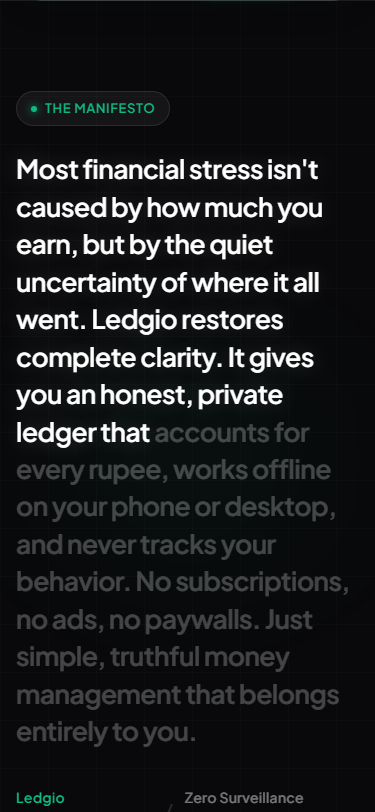
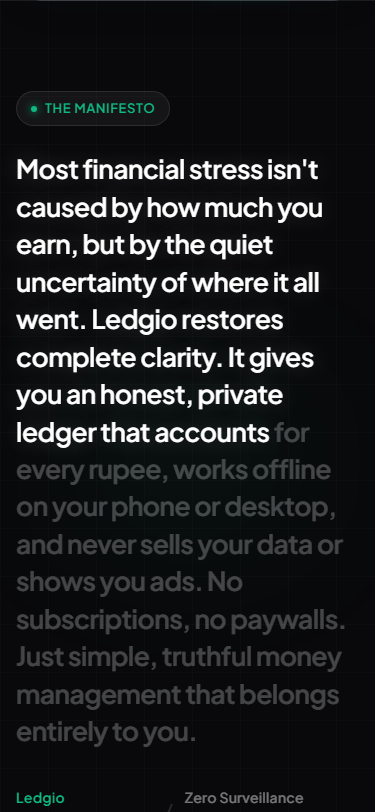
fix(landing): copy corrections on loans, manifesto, and budget warnings

Changed region(s): [[0.0293, 0.6466, 0.9093, 0.8313], [0.4107, 0.5234, 0.7333, 0.5542]]

diff --git a/index.html b/index.html
@@ -350,7 +350,7 @@
           <span class="manifesto-badge-dot" aria-hidden="true"></span>
           <span>The Manifesto</span>
         </div>
-        <p class="manifesto-statement" id="manifesto-statement" aria-label="Most financial stress isn't caused by how much you earn, but by the quiet uncertainty of where it all went. Ledgio restores complete clarity. It gives you an honest, private ledger that accounts for every rupee, works offline on your phone or desktop, and never tracks your behavior. No subscriptions, no ads, no paywalls. Just simple, truthful money management that belongs entirely to you.">Most financial stress isn't caused by how much you earn, but by the quiet uncertainty of where it all went. Ledgio restores complete clarity. It gives you an honest, private ledger that accounts for every rupee, works offline on your phone or desktop, and never tracks your behavior. No subscriptions, no ads, no paywalls. Just simple, truthful money management that belongs entirely to you.</p>
+        <p class="manifesto-statement" id="manifesto-statement" aria-label="Most financial stress isn't caused by how much you earn, but by the quiet uncertainty of where it all went. Ledgio restores complete clarity. It gives you an honest, private ledger that accounts for every rupee, works offline on your phone or desktop, and never sells your data or shows you ads. No subscriptions, no paywalls. Just simple, truthful money management that belongs entirely to you.">Most financial stress isn't caused by how much you earn, but by the quiet uncertainty of where it all went. Ledgio restores complete clarity. It gives you an honest, private ledger that accounts for every rupee, works offline on your phone or desktop, and never sells your data or shows you ads. No subscriptions, no paywalls. Just simple, truthful money management that belongs entirely to you.</p>
         <div class="manifesto-author-line">
           <span class="manifesto-brand-tag">Ledgio Architecture</span>
           <span class="manifesto-divider">/</span>
@@ -416,7 +416,7 @@
               <div class="step-num-badge">04</div>
               <div class="step-content">
                 <h3 class="step-title">Track loans and debts</h3>
-                <p class="step-desc">Keep track of money lent and borrowed, including cash loans and expenses paid on behalf of others. Record partial settlements with a clear repayment history.</p>
+                <p class="step-desc">Keep track of money lent and borrowed, including cash loans and bills someone paid for you. Record partial settlements with a clear repayment history.</p>
               </div>
               <div class="step-mobile-screen">
                 <img src="assets/img/landing/screen_loans_list.webp" alt="Ledgio loans ledger showing money lent and borrowed with partial settlements" loading="lazy" width="780" height="1688" class="step-inline-img">
@@ -531,7 +531,7 @@
 
             <!-- Panel 2: Budgets -->
             <div class="showcase-panel" role="tabpanel" id="panel-budgets" aria-labelledby="tab-budgets" tabindex="0" hidden>
-              <h3>Visual Spending Limits That Stop Overspending</h3>
+              <h3>Spending Limits That Warn You Early</h3>
               <p>Track monthly progress against category ceilings with visual warning thresholds before you exceed your limits.</p>
               <div class="showcase-bullets">
                 <div class="showcase-bullet">
@@ -588,7 +588,7 @@
                 </div>
                 <div class="showcase-bullet">
                   <i class="fas fa-check-circle" aria-hidden="true"></i>
-                  <span>Cash loans and paid-on-behalf tracking with partial settlements</span>
+                  <span>Cash loans and bills someone paid for you, with partial settlements</span>
                 </div>
                 <div class="showcase-bullet">
                   <i class="fas fa-check-circle" aria-hidden="true"></i>

diff --git a/docs/ui/landing-v2/PLAN.md b/docs/ui/landing-v2/PLAN.md
@@ -156,15 +156,15 @@ Every claim on the public landing page is mapped directly to the code that suppo
 | **Hero Chip** | 55% of Income Saved | Demo dataset (`Income: ₹16,540`, `Expenses: ₹2,289`, `Net surplus: ₹9,101`, savings rate: 55%). |
 | **Hero Chip** | Food & Dining · ₹1,450 / ₹3,000 limit | `assets/js/categories.js` (`DEFAULT_CATEGORIES` contains Food & Dining with default ₹3,000 cap). |
 | **Hero Chip** | Offline Ready · Zero ad trackers | `sw.js` (offline service worker cache), zero external ad tracker scripts in `index.html`. |
-| **Manifesto** | Accounts for every rupee, works offline, no subscriptions/ads/paywalls | `localStorage` offline storage; no telemetry tracking user accounts (`assets/js/pwa-installer.js` always sends `user_id: null`). |
+| **Manifesto** | Accounts for every rupee, works offline, never sells your data or shows you ads, no subscriptions or paywalls | `localStorage` offline storage; no user telemetry (`assets/js/pwa-installer.js` always sends `user_id: null`); zero third-party ads or trackers. |
 | **Walkthrough Step 1** | Name, amount, category, instant update of remaining balance | `assets/js/expenses.js` (`LedgioExpenses.renderExpenses()`), `assets/js/app.js` (`app.updateSummary()`). |
 | **Walkthrough Step 2** | 15 categories in total, 10 built-in by default; progress bars shift from green to amber | `assets/js/categories.js` (`DEFAULT_CATEGORIES.length === 10`, `getAllCategories().length >= 15` limit enforced); `assets/js/expenses.js` (`renderBudgets()` visual thresholds). |
 | **Walkthrough Step 3** | Savings goals with single-tap deposits funded from monthly leftover | `assets/js/goals.js` (`LedgioGoals.openDepositModal()`), `assets/js/app.js` (`app.openLeftoverGoalPicker()`). |
-| **Walkthrough Step 4** | Money lent and borrowed, cash loans vs paid-on-behalf, partial settlements, repayment history | `assets/js/loans.js` (`LedgioLoans.renderLoans()`, `type: 'lent' \| 'borrowed'`, `loan_subtype: 'cash' \| 'paid_for'`, `recordLoanRepayment()`). |
+| **Walkthrough Step 4** | Money lent and borrowed, cash loans and bills someone paid for you, partial settlements, repayment history | `assets/js/loans.js` (`LedgioLoans.renderLoans()`, `type: 'lent' \| 'borrowed'`, `loan.kind: 'cash' \| 'on_behalf'`, `recordLoanRepayment()`). |
 | **Walkthrough Step 5** | Category donut charts, 6-month trends, CSV & JSON export | `assets/js/app.js` (`renderCategoryDonut()`, `renderTrendsChart()`, `exportToCSV()`, `exportToJSON()`). |
 | **Showcase Dashboard** | Saved on your device first, synced to your private account when you sign in | `assets/js/sync-engine.js` (`getSyncQueue()`, `pushPendingSync()`), `assets/js/auth.js`. |
-| **Showcase Budgets** | 15 categories in total, 10 built-in by default; reassignments | `assets/js/categories.js` (`DEFAULT_CATEGORIES`, `saveCustomCategory()`, `openReassignCategoryModal()`). |
+| **Showcase Budgets** | Spending limits that warn you early; 15 categories in total, 10 built-in by default; reassignments | `assets/js/categories.js` (`DEFAULT_CATEGORIES`, `saveCustomCategory()`, `openReassignCategoryModal()`); `assets/js/expenses.js` (`renderBudgets()`). |
 | **Showcase Goals** | Milestone tracking with target dates and leftover deposits | `assets/js/goals.js` (`LedgioGoals.saveGoal()`, `depositToGoal()`). |
-| **Showcase Loans** | Lent and borrowed ledgers per person by name, partial settlements | `assets/js/loans.js` (`renderLoans()`, `openLoanRepaymentModal()`). |
+| **Showcase Loans** | Lent and borrowed ledgers per person by name, cash loans and bills someone paid for you, partial settlements | `assets/js/loans.js` (`renderLoans()`, `openLoanRepaymentModal()`). |
 | **Showcase Reports** | Category donut breakdown, 6-month cashflow trends, CSV/JSON export | `assets/js/app.js` (`renderCategoryDonut()`, `renderTrendsChart()`, `exportToCSV()`, `exportToJSON()`). |
 
